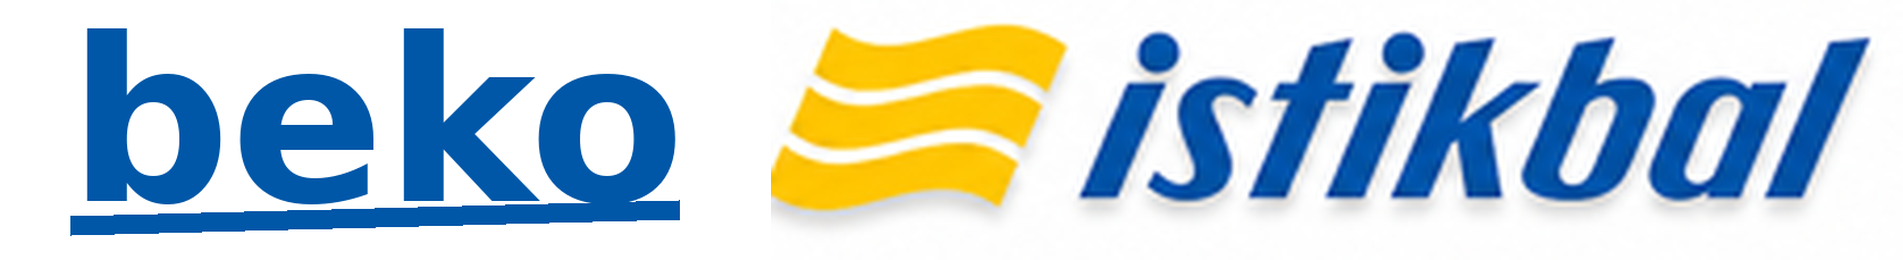
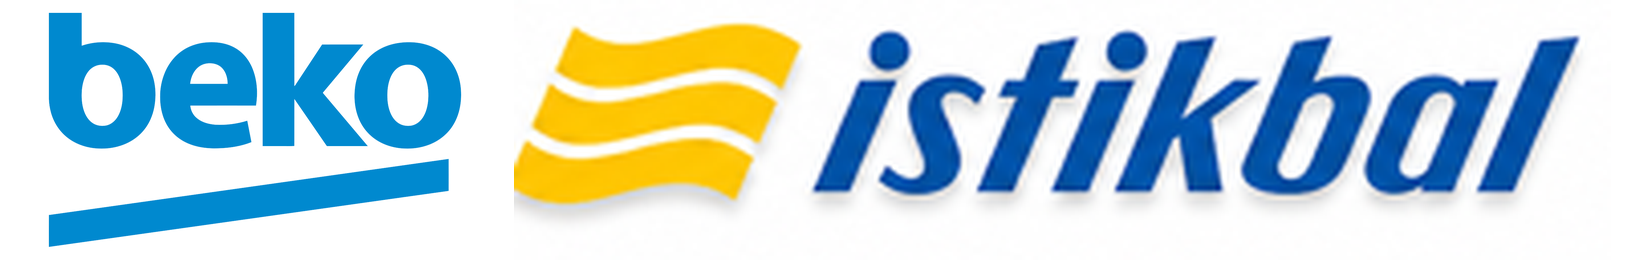
fix: resmi Beko amblemi ile değiştir (fix-v126)

diff --git a/atak_finans_server_json/atak güncelll/public/admin.html b/atak_finans_server_json/atak güncelll/public/admin.html
@@ -3,8 +3,8 @@
 <link rel="preconnect" href="https://fonts.googleapis.com"/>
 <link rel="preconnect" href="https://fonts.gstatic.com" crossorigin/>
 <link href="https://fonts.googleapis.com/css2?family=Plus+Jakarta+Sans:wght@500;600;700;800&display=swap" rel="stylesheet"/>
-<link href="/web-admin-assets/admin.css?v=fix-v125" rel="stylesheet"/>
-<link href="/web-admin-assets/admin-cockpit.css?v=fix-v125" rel="stylesheet"/>
+<link href="/web-admin-assets/admin.css?v=fix-v126" rel="stylesheet"/>
+<link href="/web-admin-assets/admin-cockpit.css?v=fix-v126" rel="stylesheet"/>
 <script>(function(){try{var mobile=window.matchMedia('(max-width:950px)').matches;var s=mobile?'1':(localStorage.getItem('atak-ui-scale-v4')||'0.85');document.documentElement.setAttribute('data-ui-scale',s);document.documentElement.style.zoom=s;if(window.visualViewport){/* keep */} }catch(e){document.documentElement.style.zoom='1'}})();</script>
 <style>
 /* ===== Satış Merkezi v655 — aynı mantık, daha güzel / kullanışlı ===== */
@@ -2382,5 +2382,5 @@ Bulunamayan → Diğer.
     <div id="salesKefilPickerList" class="sales-kefil-picker-list"></div>
   </div>
 </div>
-<script src="/web-admin-assets/admin.js?v=fix-v125"></script><script src="/web-admin-assets/customer-sales.js?v=664-restore"></script>
+<script src="/web-admin-assets/admin.js?v=fix-v126"></script><script src="/web-admin-assets/customer-sales.js?v=664-restore"></script>
 </body></html>

diff --git a/atak_finans_server_json/atak güncelll/public/personel.html b/atak_finans_server_json/atak güncelll/public/personel.html
@@ -8,8 +8,8 @@
 <link rel="preconnect" href="https://fonts.googleapis.com">
 <link rel="preconnect" href="https://fonts.gstatic.com" crossorigin>
 <link href="https://fonts.googleapis.com/css2?family=Plus+Jakarta+Sans:wght@500;600;700;800&display=swap" rel="stylesheet">
-<link rel="stylesheet" href="/assets/personel.css?v=fix-v125">
-<link rel="stylesheet" href="/assets/personel-shell.css?v=fix-v125">
+<link rel="stylesheet" href="/assets/personel.css?v=fix-v126">
+<link rel="stylesheet" href="/assets/personel-shell.css?v=fix-v126">
 </head>
 <body>
 
@@ -662,6 +662,6 @@
     <div id="salesKefilPickerList" class="sales-kefil-picker-list"></div>
   </div>
 </div>
-<script src="/assets/personel.js?v=fix-v125"></script>
+<script src="/assets/personel.js?v=fix-v126"></script>
 </body>
 </html>

diff --git a/atak_finans_server_json/atak güncelll/public/assets/admin.js b/atak_finans_server_json/atak güncelll/public/assets/admin.js
@@ -1,4 +1,4 @@
-/* ATAK_ADMIN_BUILD=fix-v125 */
+/* ATAK_ADMIN_BUILD=fix-v126 */
 const q=s=>document.querySelector(s),qa=s=>[...document.querySelectorAll(s)];let store=null,page=1,pageSize=30,selected=new Set();
 const money=n=>new Intl.NumberFormat('tr-TR',{style:'currency',currency:'TRY',maximumFractionDigits:0}).format(Number(n||0));
 const money2=n=>new Intl.NumberFormat('tr-TR',{style:'currency',currency:'TRY',minimumFractionDigits:2,maximumFractionDigits:2}).format(Number(n||0));

diff --git a/atak_finans_server_json/atak güncelll/server.js b/atak_finans_server_json/atak güncelll/server.js
@@ -1202,8 +1202,8 @@ app.use('/docs',express.static(path.join(ROOT,'public','docs'),{maxAge:'1h',fall
 app.get('/health',(req,res)=>res.json({
   ok:true,
   service:'atakhome-erp-v2',
-  version:'6.3.125-phones',
-  build:'fix-v125',
+  version:'6.3.126-beko-logo',
+  build:'fix-v126',
   ownerOnly:ownerOnlyEnabled(),
   mfa:mfaEnabled(),
   mfaTrustHours:Math.round(mfaTrustMs()/3600000),

diff --git a/atak_finans_server_json/atak güncelll/public/assets/personel.js b/atak_finans_server_json/atak güncelll/public/assets/personel.js
@@ -1,4 +1,4 @@
-/* ATAK_PERSONEL_BUILD=fix-v125 */
+/* ATAK_PERSONEL_BUILD=fix-v126 */
 const $=s=>document.querySelector(s);
 const $$=s=>[...document.querySelectorAll(s)];
 const money=v=>new Intl.NumberFormat('tr-TR',{style:'currency',currency:'TRY',maximumFractionDigits:2}).format(Number(v||0));
